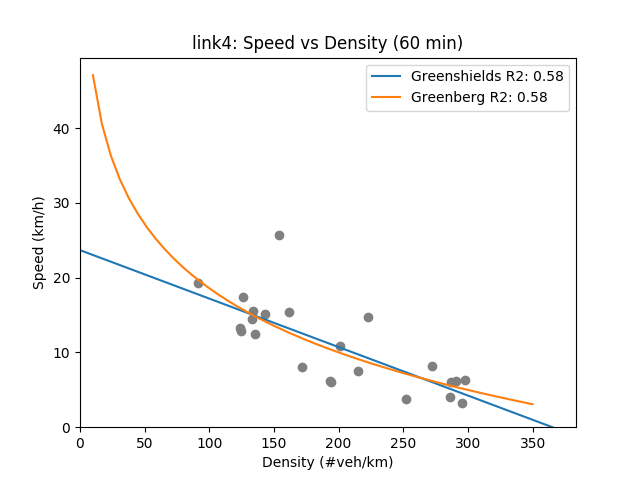
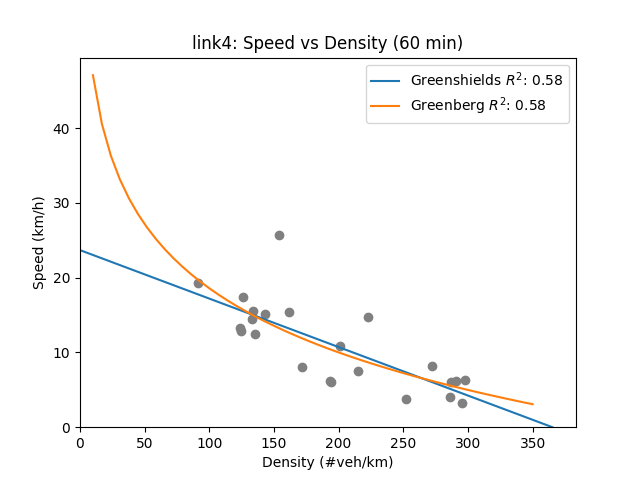
Fundamental diagram: improve label formating in plot

Changed region(s): [[0.5625, 0.125, 0.875, 0.25]]

diff --git a/lab3/fundamental_diagram/fundamental_diagram.py b/lab3/fundamental_diagram/fundamental_diagram.py
@@ -79,10 +79,10 @@ if __name__ == "__main__":
     plt.scatter(vals['density'], vals['speed'], color='gray')
 
     x,y,r2 = greenshield(vals)
-    plt.plot(x, y, label='Greenshields R2: {}'.format(round(r2,2)))
+    plt.plot(x, y, label='Greenshields $R^2$: {}'.format(round(r2,2)))
 
     x,y,r2 = greenberg(vals)
-    plt.plot(x, y, label='Greenberg R2: {}'.format(round(r2,2)))
+    plt.plot(x, y, label='Greenberg $R^2$: {}'.format(round(r2,2)))
 
     plt.axis(xmin=0,ymin=0)
     plt.xlabel('Density (#veh/km)')
